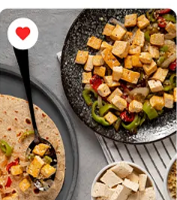
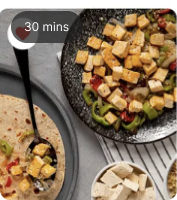
Recipe App - Assets set

diff --git a/lib/core/asset_res.dart b/lib/core/asset_res.dart
@@ -2,10 +2,28 @@ class AssetRes {
   static const _imagesPath = 'assets/images/';
   static const _iconsPath = 'assets/icons/';
 
-  static const creamyMushroomSoupImg = '${_imagesPath}creamy_mushroom_soup_img.png';
+  static const avatarImg = '${_imagesPath}avatar_img.png';
   static const spicyThaiTomyumImg = '${_imagesPath}spicy_thai_tomyum_img.png';
+  static const creamyMushroomSoupImg = '${_imagesPath}creamy_mushroom_soup_img.png';
+  static const roastedTofuImg = '${_imagesPath}roasted_tofu_img.png';
+  static const avocadoToastImg = '${_imagesPath}avocado_toast_img.png';
+  static const chocoMacaronsImg = '${_imagesPath}choco_macarons_img.png';
+  static const recipeWeekLeftImg = '${_imagesPath}recipe_week_left_img.png';
+  static const recipeWeekRightImg = '${_imagesPath}recipe_week_right_img.png';
 
   static const icDrawer = '${_iconsPath}ic_drawer.svg';
   static const icSearch = '${_iconsPath}ic_search.svg';
   static const icFilter = '${_iconsPath}ic_filter.svg';
+  static const icHome = '${_iconsPath}ic_home.svg';
+  static const icNavSearch = '${_iconsPath}ic_nav_search.svg';
+  static const icSaved = '${_iconsPath}ic_saved.svg';
+  static const icProfile = '${_iconsPath}ic_profile.svg';
+  static const icBack = '${_iconsPath}ic_back.svg';
+  static const icStar = '${_iconsPath}ic_star.svg';
+  static const icClock = '${_iconsPath}ic_clock.svg';
+  static const icDifficulty = '${_iconsPath}ic_difficulty.svg';
+  static const icChevronDown = '${_iconsPath}ic_chevron_down.svg';
+  static const icChevronRight = '${_iconsPath}ic_chevron_right.svg';
+  static const icPlay = '${_iconsPath}ic_play.svg';
+  static const icHeart = '${_iconsPath}ic_heart.svg';
 }
